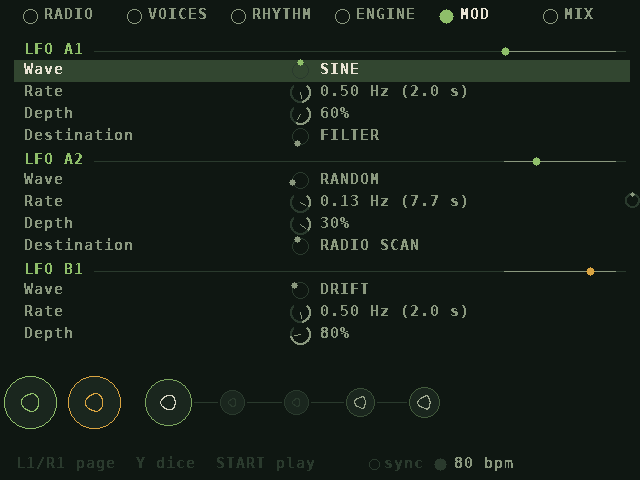
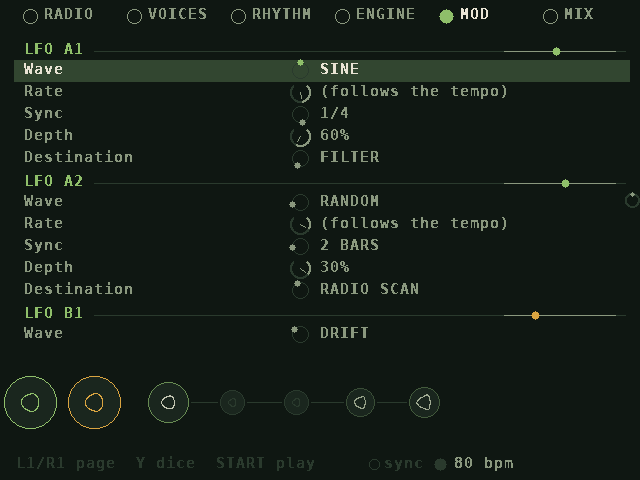
Tempo-synced LFOs, locked to the clock
Each LFO gets a Sync setting: FREE (its own rate in Hz) or a note value from
1/32 to 16 bars. A synced LFO takes its phase from the beat position the
rhythms follow, so tap tempo restarts it on the downbeat, Wi-Fi sync locks it
to the lead unit, and stopping the rhythms holds it. Its random and drift
values are derived from the cycle number, so synced units move together.
Radio-scan fades and the stepped-wave glide use the synced speed.

Claude-Session: https://claude.ai/code/session_01BCwtH7uky1EgFAH9tziGgi

diff --git a/src/dsp.c b/src/dsp.c
@@ -16,6 +16,9 @@ static const char *const osc_modes[] = {"LIVE", "LOOP", "WAVE", "GRAIN", NULL};
 static const char *const focuses[] = {"ALL SOUND", "VOICES ONLY", "MUSIC ONLY", NULL};
 static const char *const directions[] = {"FORWARD", "REVERSE", "BOTH", NULL};
 static const char *const lfo_waves[] = {"SINE", "TRIANGLE", "SAW UP", "SAW DOWN", "SQUARE", "RANDOM", "DRIFT", NULL};
+static const char *const lfo_syncs[] = {"FREE", "1/32", "1/16", "1/8T", "1/8", "1/8.", "1/4T", "1/4", "1/4.", "1/2",
+                                        "1 BAR", "2 BARS", "4 BARS", "8 BARS", "16 BARS", NULL};
+static const double lfo_sync_beats[] = {0, 0.125, 0.25, 1.0 / 3, 0.5, 0.75, 2.0 / 3, 1, 1.5, 2, 4, 8, 16, 32, 64};
 static const char *const lfo_dests[] = {"OFF", "PITCH", "LEVEL", "PAN", "SIZE", "TEXTURE", "DRIVE", "OSC MIX",
                                         "FILTER", "MORPH", "FOLD", "ECHO", "SPACE", "RADIO SCAN", NULL};
 static const char *const stut_modes[] = {"REPEAT", "REVERSE", "RANDOM", "PITCH", "DROPOUT", "SCATTER", NULL};
@@ -64,6 +67,7 @@ int euclid_hit(int steps, int pulses, int rotate, int step)
 #define LFO_PARAMS(X, x, n, rate)                                                                              \
     [P_##X##_LFO##n##_WAVE] = {x "_lfo" #n "_wave", "Wave", PAGE_MOD, 0, LFO_WAVES - 1, 0, 1, 0, "", lfo_waves}, \
     [P_##X##_LFO##n##_RATE] = {x "_lfo" #n "_rate", "Rate", PAGE_MOD, 0.02f, 20, rate, 1.1f, 1, "hz", NULL}, \
+    [P_##X##_LFO##n##_SYNC] = {x "_lfo" #n "_sync", "Sync", PAGE_MOD, 0, 14, 0, 1, 0, "", lfo_syncs},           \
     [P_##X##_LFO##n##_DEPTH] = {x "_lfo" #n "_depth", "Depth", PAGE_MOD, 0, 1, 0, 0.02f, 0, "", NULL},      \
     [P_##X##_LFO##n##_DEST] = {x "_lfo" #n "_dest", "Destination", PAGE_MOD, 0, LFO_DESTS - 1, 0, 1, 0, "", lfo_dests}
 
@@ -228,8 +232,9 @@ void param_format_ctx(int id, const float *params, char *buf, int n)
     } else if (!strcmp(p->unit, "pan")) {
         if (fabsf(v) < 0.01f) snprintf(buf, n, "centre");
         else snprintf(buf, n, "%s %.0f%%", v < 0 ? "left" : "right", fabsf(v) * 100);
-    } else if (!strcmp(p->unit, "hz")) {
-        snprintf(buf, n, v < 1 ? "%.2f Hz (%.1f s)" : "%.1f Hz", v, 1.0f / v);
+    } else if (!strcmp(p->unit, "hz")) { /* an LFO rate; its Sync setting follows it */
+        if ((int)params[id + 1] > 0) snprintf(buf, n, "(follows the tempo)");
+        else snprintf(buf, n, v < 1 ? "%.2f Hz (%.1f s)" : "%.1f Hz", v, 1.0f / v);
     } else if (!strcmp(p->unit, "ms")) {
         snprintf(buf, n, v < 10 ? "%.1f ms" : "%.0f ms", v);
     } else if (!strcmp(p->unit, "limit")) { /* how hard the mix is pushed into the limiter, 0 .. +18 dB */
@@ -524,6 +529,21 @@ int synth_seq_step(const Synth *s, int q) { return q >= SEQ_SA ? s->rh[q - SEQ_S
 float synth_seq_flash(const Synth *s, int q) { return q >= SEQ_SA ? s->rh[q - SEQ_SA].st.flash : s->rh[q].flash; }
 float synth_cross_gate(const Synth *s) { return s->rh[SEQ_X].gate; }
 float synth_lfo_value(const Synth *s, int o, int k) { return s->lfo_val[o][k]; }
+float synth_lfo_hz(const Synth *s, int o, int k)
+{
+    int sync = (int)s->u[LFO_PARAM(o, k, SYNC)];
+    return sync > 0 ? (float)(s->u[P_BPM] / 60.0 / lfo_sync_beats[sync]) : s->u[LFO_PARAM(o, k, RATE)];
+}
+
+/* a random value in -1..1 for a clock-locked LFO's cycle: the same on every unit following the same clock */
+static float lfo_cycle_random(long cycle, int o, int k)
+{
+    unsigned h = (unsigned)cycle * 2654435761u ^ (unsigned)(o * 2 + k + 1) * 40503u;
+    h ^= h >> 15;
+    h *= 2246822519u;
+    h ^= h >> 13;
+    return (float)(h >> 8) / 8388608.0f - 1.0f;
+}
 float synth_mix_meter(const Synth *s, int ch) { return ch >= 0 && ch < MIX_COUNT ? s->meter[ch] : 0; }
 int synth_floor(const Synth *s) { return s->p[P_CONVERSE] > 0.01f ? s->floor_holder : -1; }
 
@@ -1271,12 +1291,24 @@ static inline void meter_peak(float *m, float l, float r, float fall) { meter_hi
 /* advance one LFO by n samples; returns -1..1 */
 static float lfo_tick(Synth *s, int o, int k, int n)
 {
-    int wave = (int)s->u[LFO_PARAM(o, k, WAVE)];
-    double ph = s->lfo_ph[o][k] + s->u[LFO_PARAM(o, k, RATE)] * n / s->fs;
-    int wrapped = ph >= 1.0;
-    if (wrapped) ph -= floor(ph);
-    s->lfo_ph[o][k] = ph;
-    if (wrapped || (s->lfo_from[o][k] == 0 && s->lfo_to[o][k] == 0)) { /* a new random point each cycle */
+    int wave = (int)s->u[LFO_PARAM(o, k, WAVE)], sync = (int)s->u[LFO_PARAM(o, k, SYNC)];
+    double ph;
+    int wrapped;
+    if (sync > 0) { /* locked to the clock: the phase comes from the beat position (tap tempo, Wi-Fi sync) */
+        double c = s->beat_pos / lfo_sync_beats[sync];
+        long cycle = (long)floor(c);
+        ph = c - cycle;
+        s->lfo_ph[o][k] = ph;
+        s->lfo_from[o][k] = lfo_cycle_random(cycle - 1, o, k);
+        s->lfo_to[o][k] = lfo_cycle_random(cycle, o, k);
+        wrapped = 0;
+    } else {
+        ph = s->lfo_ph[o][k] + s->u[LFO_PARAM(o, k, RATE)] * n / s->fs;
+        wrapped = ph >= 1.0;
+        if (wrapped) ph -= floor(ph);
+        s->lfo_ph[o][k] = ph;
+    }
+    if (sync == 0 && (wrapped || (s->lfo_from[o][k] == 0 && s->lfo_to[o][k] == 0))) { /* a new random point each cycle */
         s->lfo_from[o][k] = s->lfo_to[o][k];
         s->lfo_rng = s->lfo_rng * 1664525u + 1013904223u; /* its own random numbers: the rest of the engine's stay put */
         s->lfo_to[o][k] = (float)(s->lfo_rng >> 8) / 8388608.0f - 1.0f;
@@ -1314,7 +1346,7 @@ static void lfo_apply(Synth *s, int n)
              * fast rates so they keep their edge; smooth waves only get a touch (2 ms) */
             int w = (int)s->u[LFO_PARAM(o, k, WAVE)];
             float glide = w == LFO_SINE || w == LFO_TRIANGLE || w == LFO_DRIFT ? 0.002f
-                                                                              : fminf(0.04f, 0.15f / s->u[LFO_PARAM(o, k, RATE)]);
+                                                                              : fminf(0.04f, 0.15f / synth_lfo_hz(s, o, k));
             float v = s->lfo_val[o][k] + (lfo_tick(s, o, k, n) - s->lfo_val[o][k]) * (1.0f - expf(-n / (glide * s->fs)));
             s->lfo_val[o][k] = v;
             int dest = (int)s->u[LFO_PARAM(o, k, DEST)];

diff --git a/src/dsp.h b/src/dsp.h
@@ -22,8 +22,8 @@
 #define VOICE_FIELDS(X)                                                                                       \
     P_##X##_STATION, P_##X##_MODE, P_##X##_TUNE, P_##X##_SIZE, P_##X##_TEXTURE, P_##X##_DIR, P_##X##_FOCUS,     \
     P_##X##_LEVEL, P_##X##_MUTE, P_##X##_PAN, P_##X##_DRIVE, P_##X##_OSC, P_##X##_OSC_MIX,                     \
-    P_##X##_LFO1_WAVE, P_##X##_LFO1_RATE, P_##X##_LFO1_DEPTH, P_##X##_LFO1_DEST,                                \
-    P_##X##_LFO2_WAVE, P_##X##_LFO2_RATE, P_##X##_LFO2_DEPTH, P_##X##_LFO2_DEST,                                    \
+    P_##X##_LFO1_WAVE, P_##X##_LFO1_RATE, P_##X##_LFO1_SYNC, P_##X##_LFO1_DEPTH, P_##X##_LFO1_DEST,            \
+    P_##X##_LFO2_WAVE, P_##X##_LFO2_RATE, P_##X##_LFO2_SYNC, P_##X##_LFO2_DEPTH, P_##X##_LFO2_DEST,                                    \
     RHYTHM_FIELDS(X)
 
 enum {
@@ -63,7 +63,8 @@ enum { DIR_FORWARD, DIR_REVERSE, DIR_BOTH }; /* BOTH: loops ping-pong, grains go
 enum { CAT_ANY, CAT_VOICE, CAT_MUSIC, CAT_SOUND };
 enum { VS_SILENT, VS_MUSIC, VS_VOICE };
 enum { PAGE_VOICES, PAGE_RHYTHM, PAGE_ENGINE, PAGE_MOD, PAGE_MIX, PAGE_COUNT };
-/* two LFOs per voice: k = 0 or 1; LFO_PARAM(o, k, WAVE / RATE / DEPTH / DEST) */
+/* two LFOs per voice: k = 0 or 1; LFO_PARAM(o, k, WAVE / RATE / SYNC / DEPTH / DEST). SYNC 0 runs free at RATE Hz;
+ * otherwise a note value, locked to the clock (tap tempo and Wi-Fi sync included) */
 #define LFO_PARAM(o, k, F) (P_A_LFO1_##F + (o) * OSC_STRIDE + (k) * (P_A_LFO2_WAVE - P_A_LFO1_WAVE))
 enum { LFO_SINE, LFO_TRIANGLE, LFO_SAW_UP, LFO_SAW_DOWN, LFO_SQUARE, LFO_RANDOM, LFO_DRIFT, LFO_WAVES };
 /* what an LFO moves: its own voice's pitch, level, pan, size, texture, drive or oscillator mix, the shared filter,
@@ -129,6 +130,7 @@ int synth_seq_step(const Synth *s, int seq);           /* current step of SEQ_A,
 float synth_seq_flash(const Synth *s, int seq);
 float synth_cross_gate(const Synth *s);                /* how open the cross rhythm is now, 0..1 */
 float synth_lfo_value(const Synth *s, int o, int k);   /* an LFO's output now, -1..1 */
+float synth_lfo_hz(const Synth *s, int o, int k);      /* its speed now, free or from the tempo */
 float synth_gate_value(const Synth *s, int osc);       /* how open the voice is now, 0..1 */
 float synth_speechness(const Synth *s, int osc);       /* 0 music .. 1 speech */
 int synth_voice_state(const Synth *s, int osc);        /* VS_* */

diff --git a/src/main.c b/src/main.c
@@ -2288,7 +2288,7 @@ static void radio_scan(Uint32 now)
         for (int k = 0; k < 2; k++)
             if ((int)synth_get_param(syn, LFO_PARAM(o, k, DEST)) == LFO_SCAN) {
                 float d = synth_get_param(syn, LFO_PARAM(o, k, DEPTH));
-                if (d > depth) { depth = d; v = synth_lfo_value(syn, o, k); rate = synth_get_param(syn, LFO_PARAM(o, k, RATE)); }
+                if (d > depth) { depth = d; v = synth_lfo_value(syn, o, k); rate = synth_lfo_hz(syn, o, k); }
             }
         int base = station_param(o), scanning = depth > 0.01f;
         if (base < 0 || base >= n || n < 2 || ui.pending_station[o] >= -1) continue;

diff --git a/README.md b/README.md
@@ -57,9 +57,12 @@ a wavefolder, echo and space.
   - **Volume**, a look-ahead **limiter** (push, release, ceiling), and a leveller (**auto level**) that keeps the
     overall loudness steady so the radio comes through clearly.
 - **LFOs.** Each voice has two independent LFOs (MOD page): wave (sine, triangle, saw up, saw down, square,
-  random, drift), rate (0.02 to 20 Hz), depth and destination: the voice's pitch, level, pan, size, texture, drive
+  random, drift), rate (0.02 to 20 Hz, or **Sync** to a note value from 1/32 to 16 bars), depth and destination: the voice's pitch, level, pan, size, texture, drive
   or oscillator mix, or the shared filter, morph, fold, echo or space. Stepped waves glide a few ms so they don't
   click. They move the values the engine plays, never your settings, so turning one off puts everything back.
+  A synced LFO takes its position from the clock the rhythms follow: tap tempo restarts it on the downbeat, Wi-Fi
+  sync locks it to the lead unit, stopping the rhythms holds it, and its random and drift values come from the bar
+  position, so synced units move together.
 - **Radio scan.** An LFO sent to RADIO SCAN tunes its voice around the station list like a wave scanner: depth
   sets how far from the voice's own station it roams (a station or two either side at low depth, the whole list at
   full depth), the wave sets how (sine sweeps up and down the dial, random jumps), and the voice crossfades into
